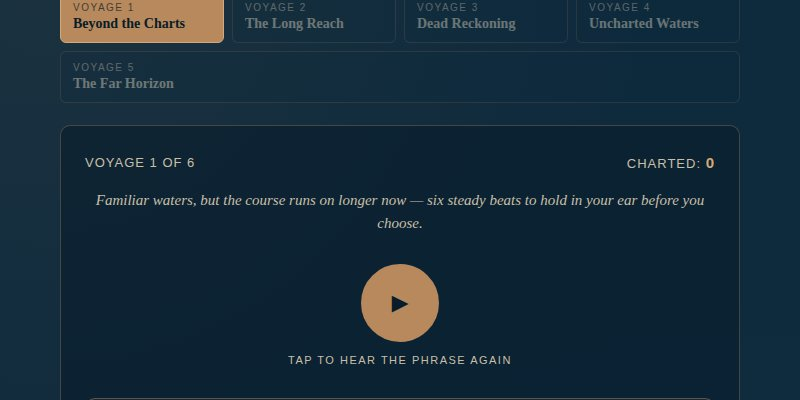
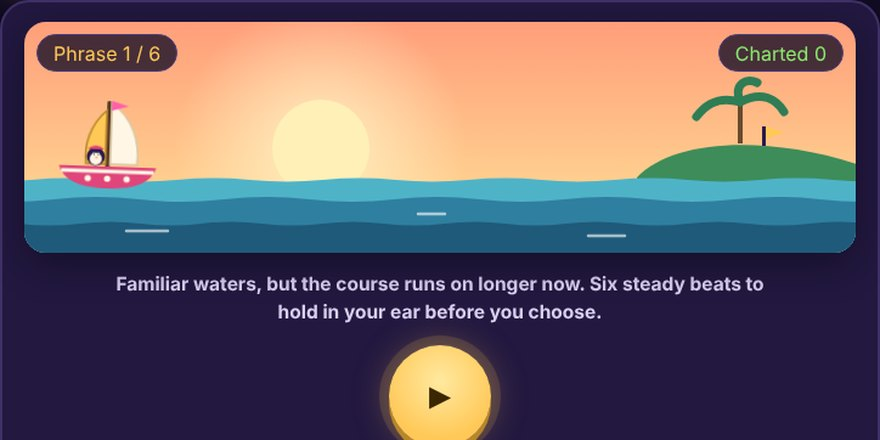
Restyle Charting the Melody II to match the newer games
Same house style as Charting the Melody: sea scene per voyage (new dawn
scene for The Far Horizon), sailboat that advances on correct answers,
cream sea-chart contour cards, gold play button. Game logic unchanged;
em dashes removed. Also gives both games more top room on phones so the
heading clears the back link. Updated card screenshot.

Claude-Session: https://claude.ai/code/session_01Vt89E4KrajVwQZ7JitHWqg

diff --git a/games/charting-the-melody-2.html b/games/charting-the-melody-2.html
@@ -328,6 +328,118 @@
     .contour-card svg { height: 64px; }
   }
 </style>
+<link rel="preconnect" href="https://fonts.googleapis.com">
+<link rel="preconnect" href="https://fonts.gstatic.com" crossorigin>
+<link href="https://fonts.googleapis.com/css2?family=Bungee&family=Lilita+One&family=Nunito:wght@400;600;700;800;900&display=swap" rel="stylesheet">
+<style id="lum-house-style">
+:root{
+  --night:#120C24;--panel:#221840;--panel-2:#2C1F52;--line:#3F3168;
+  --ink-l:#F7EEDC;--ink-dim:#B3A7D1;--paper:#FFF6E6;--paper-ink:#2A1B4A;--paper-edge:#D9C7A3;
+  --lily:#8BEA6E;--gold:#FFC857;--pink:#FF5FA8;--orange:#FFA45B;--cyan:#6FE3FF;
+  --arcade:'Bungee','Lilita One',Impact,system-ui,sans-serif;
+  --display:'Lilita One','Arial Rounded MT Bold',system-ui,sans-serif;
+  --body:'Nunito',system-ui,-apple-system,'Segoe UI',sans-serif;
+  /* old variable names, remapped so inline SVG keeps working */
+  --brass:#2A1B4A;--brass-bright:#FFC857;--parchment:#2A1B4A;--parchment-soft:#8F7FB5;--navy-deep:#2A1B4A;
+}
+body{background:radial-gradient(ellipse at 50% -15%,#2C1F52 0%,#120C24 58%) fixed,#120C24 !important;color:var(--ink-l);font-family:var(--body) !important}
+.wrap{max-width:760px !important;padding:30px 18px 60px !important}
+.site-back{position:fixed;top:14px;left:14px;z-index:9999;font:800 13px/1 var(--body);color:var(--ink-dim);text-decoration:none;background:rgba(18,12,36,.8);border:1px solid var(--line);border-radius:999px;padding:8px 14px}
+.site-back:hover{color:var(--ink-l)}
+
+.masthead{border:0 !important;padding:0 !important;margin:10px 0 18px !important}
+.masthead .eyebrow{font-family:var(--body);font-weight:900;font-size:12px;letter-spacing:.32em !important;color:var(--cyan) !important;text-shadow:0 0 12px rgba(111,227,255,.5)}
+.masthead h1{font-family:var(--arcade) !important;font-weight:400 !important;font-size:clamp(34px,6.4vw,58px) !important;line-height:.95;margin:8px 0 6px !important;background:linear-gradient(180deg,#FFF1B8 0%,#FFC857 50%,#FF9A3D 100%);-webkit-background-clip:text;background-clip:text;color:transparent !important;filter:drop-shadow(0 4px 0 #1B0F3A) drop-shadow(0 0 18px rgba(255,200,87,.35))}
+.masthead h1 span{display:block;font-size:.62em;background:linear-gradient(180deg,#D9FBFF 0%,#6FE3FF 50%,#4FA3FF 100%);-webkit-background-clip:text;background-clip:text}
+.masthead .sub{color:var(--ink-dim);font-size:15px;margin:0}
+
+.level-rail{display:grid !important;grid-template-columns:repeat(4,1fr);gap:10px !important;margin-bottom:16px !important}
+.level-pip{min-width:0 !important;background:var(--panel-2) !important;border:2px solid var(--line) !important;border-radius:16px !important;padding:10px 12px !important;color:var(--ink-l);font-family:var(--body)}
+.level-pip .lvl-num{font-family:var(--arcade);font-size:10px !important;letter-spacing:.08em !important;color:var(--cyan) !important;opacity:1 !important}
+.level-pip .lvl-name{font-family:var(--display) !important;font-weight:400 !important;font-size:16px !important;color:var(--ink-l) !important}
+.level-pip.active{border-color:var(--gold) !important;box-shadow:0 10px 26px -8px rgba(255,200,87,.7)}
+.level-pip.locked{opacity:.45 !important}
+.level-pip .charted-mini{background:var(--lily) !important;color:#14361A !important;border:2px solid var(--night) !important}
+
+.chart-panel{background:var(--panel) !important;border:2px solid var(--line) !important;border-radius:24px !important;padding:16px 18px 22px !important;box-shadow:0 20px 60px rgba(0,0,0,.45)}
+
+/* sea scene */
+.sea{position:relative;height:190px;border-radius:18px;overflow:hidden;margin:0 0 14px;box-shadow:inset 0 0 0 2px rgba(255,255,255,.06),0 10px 30px rgba(0,0,0,.35)}
+.sea svg.scene{position:absolute;inset:0;width:100%;height:100%;display:block}
+.sea .hud{position:absolute;top:10px;left:10px;right:10px;display:flex;justify-content:space-between;gap:8px;z-index:4}
+.sea .pill{background:rgba(18,12,36,.78);border:1px solid #4A3B7C;color:var(--ink-l);font-family:var(--display);font-size:16px;padding:5px 13px 4px;border-radius:999px}
+.sea .pill.gold{color:var(--gold)}
+.sea .pill.lily{color:var(--lily)}
+.boat{position:absolute;bottom:22%;z-index:3;width:92px;transform:translateX(-50%);transition:left 1.1s cubic-bezier(.45,.05,.35,1)}
+.boat svg{display:block;width:100%;height:auto;animation:bob 2.6s ease-in-out infinite;transform-origin:50% 90%}
+@keyframes bob{0%,100%{transform:translateY(0) rotate(-2deg)}50%{transform:translateY(-5px) rotate(2deg)}}
+.wave-a{animation:swell 6s ease-in-out infinite alternate}
+.wave-b{animation:swell 8s ease-in-out infinite alternate-reverse}
+@keyframes swell{from{transform:translateX(-24px)}to{transform:translateX(24px)}}
+.twinkle{animation:tw 3s ease-in-out infinite}
+@keyframes tw{0%,100%{opacity:.25}50%{opacity:1}}
+.beam{animation:beam 4s ease-in-out infinite}
+@keyframes beam{0%,100%{opacity:.35}50%{opacity:1}}
+
+/* text + controls */
+.stat-row{display:none !important}
+.chart-brief{font-family:var(--body) !important;font-style:normal !important;font-weight:700;color:#D9CFF0 !important;font-size:15.5px !important;margin:4px auto 14px !important;max-width:560px}
+.briefing-label{color:var(--ink-dim) !important;font-weight:700}
+.ref-chip{background:var(--paper) !important;color:var(--paper-ink) !important;border:0 !important;font-family:var(--display);font-weight:400 !important;font-size:17px !important;padding:9px 20px 7px !important;box-shadow:0 4px 0 var(--paper-edge)}
+.ref-chip:hover{background:#FFF1BF !important}
+.ref-chip:active{transform:translateY(3px);box-shadow:0 1px 0 var(--paper-edge)}
+.listen-zone{padding:2px 0 14px !important;gap:8px !important}
+.play-btn{width:84px !important;height:84px !important;border:0 !important;background:radial-gradient(circle at 50% 35%,#FFE9A0,#FFC857 70%) !important;color:#3A2600 !important;font-size:30px !important;box-shadow:0 6px 0 #B8862A,0 0 0 8px rgba(255,200,87,.14),0 0 30px rgba(255,200,87,.35) !important}
+.play-btn:hover{background:radial-gradient(circle at 50% 35%,#FFF1BF,#FFD67A 70%) !important;color:#3A2600 !important}
+.play-btn:active{transform:translateY(4px) !important;box-shadow:0 2px 0 #B8862A !important}
+.play-label{font-family:var(--display);text-transform:none !important;letter-spacing:.01em !important;font-size:16px !important;color:var(--ink-dim) !important}
+
+/* contour cards: cream sea-chart paper */
+.contour-grid{gap:14px !important}
+.contour-card{position:relative;background:var(--paper) !important;border:3px solid transparent !important;border-radius:18px !important;box-shadow:0 5px 0 var(--paper-edge);padding:26px 10px 10px !important;overflow:hidden}
+.contour-card::before{content:"";position:absolute;inset:0;background:
+   repeating-linear-gradient(0deg,rgba(79,163,255,.07) 0 1px,transparent 1px 18px),
+   repeating-linear-gradient(90deg,rgba(79,163,255,.07) 0 1px,transparent 1px 18px);pointer-events:none}
+.contour-card:hover:not(.locked-card){transform:translateY(-3px) !important;background:#FFFBF1 !important;border-color:var(--gold) !important}
+.contour-card svg{position:relative}
+.contour-card .card-label{position:absolute;top:8px;left:10px;font-family:var(--arcade) !important;font-size:11px !important;letter-spacing:.06em !important;color:#fff !important;background:var(--paper-ink);border-radius:7px;padding:3px 8px 1px}
+.contour-card.selected{border-color:var(--gold) !important}
+.contour-card.correct-card{border-color:#3FBF6A !important;background:#ECFCE6 !important;box-shadow:0 5px 0 #8FD39E,0 0 0 4px rgba(139,234,110,.3)}
+.contour-card.correct-card .card-label{background:#23854A}
+.contour-card.wrong-card{border-color:#E0457B !important;background:#FFEDF2 !important;box-shadow:0 5px 0 #F2A7BF}
+.contour-card.wrong-card .card-label{background:#D2386C}
+.contour-card.correct-card::after{content:"✓";position:absolute;top:4px;right:10px;font:400 22px var(--display);color:#23854A}
+.contour-card.wrong-card::after{content:"✕";position:absolute;top:4px;right:10px;font:400 20px var(--display);color:#D2386C}
+
+.feedback-line{font-family:var(--display);font-style:normal !important;font-size:20px !important;color:var(--ink-l) !important;margin-top:10px !important}
+.feedback-line.good{color:var(--lily) !important}
+.feedback-line.bad{color:#FF8FB8 !important}
+button.chart-btn{font-family:var(--display) !important;font-weight:400 !important;font-size:19px !important;text-transform:none !important;letter-spacing:.01em !important;border-radius:999px !important;padding:12px 30px 10px !important;background:linear-gradient(180deg,#FFE9A0,#FFC857) !important;color:#3A2600 !important;box-shadow:0 5px 0 #B8862A,0 0 24px rgba(255,200,87,.25)}
+button.chart-btn:hover{background:linear-gradient(180deg,#FFF1BF,#FFD67A) !important}
+button.chart-btn:active{transform:translateY(3px) !important;box-shadow:0 2px 0 #B8862A}
+button.chart-btn.ghost{background:#3A2C62 !important;color:var(--ink-l) !important;box-shadow:0 4px 0 #0b0717}
+#setSailBtn{font-family:var(--arcade) !important;font-size:20px !important;letter-spacing:.05em !important;width:auto !important;padding:13px 40px 10px !important}
+.log-complete h2{font-family:var(--arcade) !important;font-weight:400;color:var(--gold) !important;font-size:30px !important;text-shadow:0 4px 0 #1B0F3A}
+.log-complete p{color:#D9CFF0 !important}
+.footer-note{color:var(--ink-dim) !important;opacity:1 !important}
+
+.contour-grid{grid-template-columns:1fr !important}
+.contour-card{flex-direction:row !important;align-items:center !important;padding:12px 16px 12px 14px !important}
+.contour-card .card-label{position:static !important;flex-shrink:0;order:-1}
+.contour-card{padding-right:44px !important}
+.contour-card svg{flex:1;min-width:0}
+.level-rail{grid-template-columns:repeat(5,1fr) !important}
+.level-pip .lvl-name{font-size:15px !important}
+.contour-card svg{height:100px !important}
+.contour-card.correct-card::after,.contour-card.wrong-card::after{top:50%;transform:translateY(-50%)}
+:root{--sea-bright:#4FA3FF}
+@media (max-width:640px){.level-rail{grid-template-columns:repeat(2,1fr) !important}}
+@media (max-width:480px){.contour-card{flex-direction:column !important;align-items:stretch !important}.contour-card .card-label{align-self:flex-start}}
+
+@media (max-width:560px){.wrap{padding-top:64px !important}.masthead .eyebrow{letter-spacing:.18em !important}.level-rail{grid-template-columns:repeat(2,1fr)}.sea{height:160px}.boat{width:74px}}
+@media (prefers-reduced-motion:reduce){.boat svg,.wave-a,.wave-b,.twinkle,.beam{animation:none}}
+</style>
+
 <!-- SEO -->
 <link rel="canonical" href="https://levelupmusicianship.com/games/charting-the-melody-2">
 <meta property="og:type" content="website">
@@ -376,17 +488,19 @@
 <!-- /SEO -->
 </head>
 <body>
-<a href="../games.html" style="position:fixed;top:14px;left:14px;z-index:9999;font-family:'Source Sans 3',sans-serif;font-size:13px;font-weight:600;color:#fff;background:rgba(0,0,0,0.45);padding:7px 14px;border-radius:100px;text-decoration:none;backdrop-filter:blur(4px);">&larr; Level Up Musicianship</a>
+<a class="site-back" href="../games.html">&larr; Level Up Musicianship</a>
 <div class="wrap">
 
   <div class="masthead">
-    <p class="eyebrow">Longer courses, further waters</p>
-    <h1>Charting the Melody II</h1>
+    <p class="eyebrow">Melodic contour + rhythm &middot; Year 8</p>
+    <h1>Charting<span>the Melody II</span></h1>
+    <p class="sub">Longer phrases with real rhythms. Hear it, then pick the course that matches.</p>
   </div>
 
   <div class="level-rail" id="levelRail"></div>
 
   <div class="chart-panel" id="chartPanel">
+    <div class="sea" id="seaScene"></div>
     <div class="stat-row" id="statRow" style="display:none;">
       <span id="statLeft">Voyage 1 of 5</span>
       <span>Charted: <span class="score-num" id="scoreNum">0</span></span>
@@ -421,7 +535,7 @@
     </div>
   </div>
 
-  <p class="footer-note">Synthesised tones &mdash; no files, no installs.<br>The further voyages of Charting the Melody, for longer phrases and a sharper ear. Part of the Level Up Musicianship library.</p>
+  <p class="footer-note">Synthesised tones. No files, no installs.<br>The further voyages of Charting the Melody, for longer phrases and a sharper ear. Part of the Level Up Musicianship library.</p>
 
 </div>
 
@@ -518,19 +632,19 @@
       id: 1, name: 'Beyond the Charts', voyages: 6,
       scale: 'pentatonic', order: ['d','r','m','s'], beatCount: 6,
       rhythms: ['crotchet'],
-      brief: 'Familiar waters, but the course runs on longer now \u2014 six steady beats to hold in your ear before you choose.'
+      brief: 'Familiar waters, but the course runs on longer now. Six steady beats to hold in your ear before you choose.'
     },
     {
       id: 2, name: 'The Long Reach', voyages: 6,
       scale: 'pentatonic', order: ['d','r','m','s','l'], beatCount: 6,
       rhythms: ['crotchet', 'titi'],
-      brief: 'Some beats now split into ti-ti. Don\u2019t just catch the first few moves \u2014 the whole phrase has to land.'
+      brief: 'Some beats now split into ti-ti. Don\u2019t just catch the first few moves. The whole phrase has to land.'
     },
     {
       id: 3, name: 'Dead Reckoning', voyages: 7,
       scale: 'diatonic', order: ['d','r','m','f','s','l'], beatCount: 6,
       rhythms: ['crotchet', 'titi', 'titika'],
-      brief: 'Listen for ti-ti-ka tucked into the beat, and the close calls in pitch \u2014 mi to fa is a short hop, not a leap.'
+      brief: 'Listen for ti-ti-ka tucked into the beat, and the close calls in pitch: mi to fa is a short hop, not a leap.'
     },
     {
       id: 4, name: 'Uncharted Waters', voyages: 7,
@@ -542,7 +656,7 @@
       id: 5, name: 'The Far Horizon', voyages: 8,
       scale: 'diatonic', order: ['d','r','m','f','s','l','t','d2'], beatCount: 7,
       rhythms: ['crotchet', 'titi', 'titika', 'tikati', 'tikatika'],
-      brief: 'The full octave, and the full rhythm kit \u2014 ti-ka-ti-ka included. The longest, busiest course yet.'
+      brief: 'The full octave, and the full rhythm kit, ti-ka-ti-ka included. The longest, busiest course yet.'
     }
   ];
 
@@ -794,7 +908,7 @@
       seenLevels.add(val);
       const norm = (val - minH) / range;
       const y = (h - padY) - norm * (h - padY * 2);
-      gridlines += `<line x1="${padX}" y1="${y.toFixed(1)}" x2="${w - padX}" y2="${y.toFixed(1)}" stroke="var(--brass)" stroke-width="1" opacity="0.12"/>`;
+      gridlines += `<line x1="${padX}" y1="${y.toFixed(1)}" x2="${w - padX}" y2="${y.toFixed(1)}" stroke="#4FA3FF" stroke-width="1" opacity="0.35" stroke-dasharray="2,4"/>`;
     });
 
     // every segment is either "held" (same pitch, dashed) or "moved"
@@ -808,8 +922,8 @@
       const isSame = label === 'same';
       const mx = (x0 + x1) / 2, my = (y0 + y1) / 2;
       let stroke, width, dash;
-      if (isSame) { stroke = 'var(--parchment-soft)'; width = 1.8; dash = '4,3'; }
-      else { stroke = 'var(--parchment)'; width = 2.2; dash = 'none'; }
+      if (isSame) { stroke = '#8F7FB5'; width = 2.6; dash = '5,4'; }
+      else { stroke = '#2A1B4A'; width = 3; dash = 'none'; }
       const dashAttr = dash !== 'none' ? ` stroke-dasharray="${dash}"` : '';
       segments += `<path d="M ${x0.toFixed(1)} ${y0.toFixed(1)} Q ${x0.toFixed(1)} ${y0.toFixed(1)} ${mx.toFixed(1)} ${my.toFixed(1)} Q ${x1.toFixed(1)} ${y1.toFixed(1)} ${x1.toFixed(1)} ${y1.toFixed(1)}" fill="none" stroke="${stroke}" stroke-width="${width}" stroke-linecap="round"${dashAttr}/>`;
     }
@@ -819,8 +933,8 @@
     let dots = '';
     pts.forEach((p, i) => {
       const dur = rhythm ? rhythm.durations[i] : 1;
-      const r = 2.3 + dur * 1.6;
-      dots += `<circle cx="${p[0].toFixed(1)}" cy="${p[1].toFixed(1)}" r="${r.toFixed(1)}" fill="var(--brass-bright)" stroke="var(--navy-deep)" stroke-width="1"/>`;
+      const r = 3 + dur * 2;
+      dots += `<circle cx="${p[0].toFixed(1)}" cy="${p[1].toFixed(1)}" r="${r.toFixed(1)}" fill="#FFC857" stroke="#2A1B4A" stroke-width="1.6"/>`;
     });
 
     // beat ticks + beam-style underlines: a short tick at every beat
@@ -854,6 +968,79 @@
     </svg>`;
   }
 
+
+  /* ===== house-style sea scene ===== */
+  const seaEl = document.getElementById('seaScene');
+  let charted = 0;
+  function seaSVG(levelIdx){
+    const P = [
+      {s1:'#FF9E7A',s2:'#FFCF8F',s3:'#FFE9B8',sea1:'#4FB3C8',sea2:'#2F7FA0',sea3:'#1F5A7A',isl:'#3E8C5A',sun:'day'},
+      {s1:'#5EC3E8',s2:'#A8E3F0',s3:'#E9F8F6',sea1:'#3C9CC4',sea2:'#2A73A0',sea3:'#1B4E78',isl:'#3E8C5A',sun:'noon'},
+      {s1:'#120C24',s2:'#2C1F52',s3:'#4A2F6B',sea1:'#2B3F7A',sea2:'#1E2C5E',sea3:'#141E44',isl:'#1E2C3E',sun:'stars'},
+      {s1:'#0B0A1E',s2:'#1C1A44',s3:'#2E2B66',sea1:'#24356E',sea2:'#18244F',sea3:'#0F183A',isl:'#18223A',sun:'light'},
+      {s1:'#3A2C6E',s2:'#E77FA0',s3:'#FFC58A',sea1:'#5A7FC4',sea2:'#3D5C9E',sea3:'#283F74',isl:'#3B5A4A',sun:'dawn'}
+    ][levelIdx];
+    const c = P;
+    let o = `<svg class="scene" viewBox="0 0 1000 190" preserveAspectRatio="xMaxYMax slice" xmlns="http://www.w3.org/2000/svg">
+      <defs><linearGradient id="sk" x1="0" y1="0" x2="0" y2="1"><stop offset="0" stop-color="${c.s1}"/><stop offset=".7" stop-color="${c.s2}"/><stop offset="1" stop-color="${c.s3}"/></linearGradient>
+      <linearGradient id="bm" x1="1" y1="0" x2="0" y2="0"><stop offset="0" stop-color="#FFF4C8" stop-opacity=".55"/><stop offset="1" stop-color="#FFF4C8" stop-opacity="0"/></linearGradient><radialGradient id="gl"><stop offset="0" stop-color="#FFF4C8" stop-opacity=".9"/><stop offset="1" stop-color="#FFF4C8" stop-opacity="0"/></radialGradient></defs>
+      <rect width="1000" height="190" fill="url(#sk)"/>`;
+    if (c.sun === 'day') o += `<circle cx="560" cy="104" r="120" fill="url(#gl)"/><circle cx="560" cy="104" r="40" fill="#FFF0B8"/>`;
+    if (c.sun === 'dawn') o += `<circle cx="600" cy="132" r="140" fill="url(#gl)"/><circle cx="600" cy="132" r="46" fill="#FFE2A8"/><g fill="#FFD3C2" opacity=".6"><ellipse cx="420" cy="60" rx="70" ry="8"/><ellipse cx="760" cy="40" rx="90" ry="7"/></g>`;
+    if (c.sun === 'noon') o += `<circle cx="520" cy="44" r="90" fill="url(#gl)"/><circle cx="520" cy="44" r="26" fill="#FFF6CF"/><g fill="#fff" opacity=".85"><ellipse cx="700" cy="60" rx="56" ry="13"/><ellipse cx="735" cy="50" rx="34" ry="13"/><ellipse cx="380" cy="70" rx="44" ry="10"/></g>`;
+    if (c.sun === 'stars' || c.sun === 'light') {
+      let seed = 7 + levelIdx;
+      const rnd = () => (seed = (seed * 9301 + 49297) % 233280) / 233280;
+      for (let k = 0; k < 40; k++) o += `<circle class="twinkle" style="animation-delay:${(-rnd()*3).toFixed(2)}s" cx="${(rnd()*1000).toFixed(0)}" cy="${(rnd()*100).toFixed(0)}" r="${(rnd()*1.4+.5).toFixed(1)}" fill="#FFF6E6"/>`;
+      if (c.sun === 'stars') o += `<g stroke="#6FE3FF" stroke-width="1.2" opacity=".55" fill="#BFF4FF"><path d="M440,40 L480,30 L520,50 L560,38 L592,62" fill="none"/><circle cx="440" cy="40" r="2.6"/><circle cx="480" cy="30" r="2.6"/><circle cx="520" cy="50" r="2.6"/><circle cx="560" cy="38" r="2.6"/><circle cx="592" cy="62" r="2.6"/></g><circle cx="740" cy="64" r="60" fill="url(#gl)" opacity=".25"/><path d="M748,47 A18,18 0 1 0 757,74 A15,15 0 1 1 748,47Z" fill="#FFF1C4"/>`;
+    }
+    // goal island
+    o += `<path d="M820,128 C850,96 930,92 1010,120 L1010,140 L820,140Z" fill="${c.isl}"/>`;
+    if (c.sun === 'light') o += `<g transform="translate(910 62)"><path class="beam" d="M0,-2 L-300,-40 L-300,36Z" fill="url(#bm)"/><rect x="-7" y="0" width="14" height="44" fill="#F2E6D8"/><rect x="-7" y="10" width="14" height="6" fill="#E0457B"/><rect x="-7" y="26" width="14" height="6" fill="#E0457B"/><rect x="-10" y="-8" width="20" height="9" rx="2" fill="#2A1B4A"/><circle cx="0" cy="-4" r="4" fill="#FFE27A"/></g>`;
+    else o += `<g transform="translate(905 100)"><rect x="-2" y="-34" width="4" height="34" fill="#6A4A2E"/><path d="M0,-34 C-20,-40 -30,-30 -36,-22 M0,-34 C18,-44 30,-36 36,-26 M0,-34 C-6,-50 6,-54 14,-50" stroke="#2F7D55" stroke-width="7" fill="none" stroke-linecap="round"/><rect x="18" y="-14" width="3" height="16" fill="#2A1B4A"/><path d="M21,-14 L36,-9 L21,-4Z" fill="#FFC857"/></g>`;
+    // sea layers
+    const amp = levelIdx === 0 ? 4 : levelIdx === 1 ? 9 : 7;
+    const wave = (y, a, len) => { let d = `M-60,${y}`; for (let x = -60; x < 1080; x += len) d += ` q${len/4},${-a} ${len/2},0 t${len/2},0`; return d + ` L1080,190 L-60,190Z`; };
+    o += `<path class="wave-b" d="${wave(130, amp*.7, 120)}" fill="${c.sea1}"/>`;
+    o += `<path class="wave-a" d="${wave(146, amp, 140)}" fill="${c.sea2}"/>`;
+    o += `<path class="wave-b" d="${wave(166, amp*.8, 100)}" fill="${c.sea3}"/>`;
+    o += `<g stroke="#fff" stroke-width="2.5" stroke-linecap="round" opacity="${c.sun === 'stars' || c.sun === 'light' ? .25 : .6}"><path d="M120,156 h26 M400,172 h34 M640,158 h22 M780,176 h30"/></g>`;
+    return o + `</svg>`;
+  }
+  function boatSVG(night){
+    return `<svg viewBox="0 0 92 84" xmlns="http://www.w3.org/2000/svg">
+      <rect x="44" y="6" width="3.5" height="56" rx="1.5" fill="#5B3A29"/>
+      <path d="M48,8 C66,20 72,40 70,58 L48,58Z" fill="#FFF6E6" stroke="#D9C7A3" stroke-width="1.5"/>
+      <path d="M44,14 C30,26 26,44 28,58 L44,58Z" fill="#FFC857" stroke="#B8862A" stroke-width="1.5"/>
+      <path d="M48,6 L62,10 L48,14Z" fill="#FF5FA8"/>
+      <circle cx="36" cy="52" r="7.5" fill="#2A1B4A"/><circle cx="36" cy="54" r="5" fill="#FFF6E6"/>
+      <circle cx="34.5" cy="50" r="1.2" fill="#fff"/><circle cx="38" cy="50" r="1.2" fill="#fff"/>
+      <circle cx="34.5" cy="50.2" r=".6" fill="#2A1B4A"/><circle cx="38" cy="50.2" r=".6" fill="#2A1B4A"/>
+      <path d="M35,52.2 l1.6,1.8 l1.6,-1.8Z" fill="#FFA45B"/>
+      <path d="M29,46 Q36,40 43,46Z" fill="#E0457B"/>
+      ${night ? '<circle cx="78" cy="56" r="10" fill="#FFE27A" opacity=".25"/><circle cx="78" cy="56" r="3.5" fill="#FFE27A"/><line x1="72" y1="60" x2="78" y2="56" stroke="#5B3A29" stroke-width="2"/>' : ''}
+      <path d="M6,60 L86,60 C82,72 70,78 46,78 C22,78 10,72 6,60Z" fill="#E0457B"/>
+      <path d="M8,64 L84,64" stroke="#FFF6E6" stroke-width="3"/>
+      <circle cx="30" cy="70" r="2.6" fill="#FFF6E6"/><circle cx="46" cy="70" r="2.6" fill="#FFF6E6"/><circle cx="62" cy="70" r="2.6" fill="#FFF6E6"/>
+    </svg>`;
+  }
+  function renderSea(){
+    if (!seaEl) return;
+    const lvl = LEVELS[currentLevelIdx];
+    const total = lvl.voyages;
+    const pct = 10 + (charted / total) * 70;
+    const night = currentLevelIdx === 2 || currentLevelIdx === 3;
+    if (seaEl.dataset.level !== String(currentLevelIdx)) {
+      seaEl.innerHTML = seaSVG(currentLevelIdx) +
+        `<div class="hud"><span class="pill gold" id="seaVoy"></span><span class="pill lily" id="seaScore"></span></div>` +
+        `<div class="boat" id="seaBoat" style="left:${pct}%">${boatSVG(night)}</div>`;
+      seaEl.dataset.level = String(currentLevelIdx);
+    }
+    document.getElementById('seaVoy').textContent = 'Phrase ' + Math.min(voyageIndex + 1, total) + ' / ' + total;
+    document.getElementById('seaScore').textContent = 'Charted ' + score;
+    document.getElementById('seaBoat').style.left = pct + '%';
+  }
+
   function renderLevelRail() {
     levelRail.innerHTML = '';
     LEVELS.forEach((lvl, i) => {
@@ -880,7 +1067,9 @@
     voyageIndex = 0;
     score = 0;
     lastPhraseKey = null;
+    charted = 0;
     chartBrief.textContent = lvl.brief;
+    renderSea();
     completeState.style.display = 'none';
     playState.style.display = 'none';
     statRow.style.display = 'none';
@@ -957,6 +1146,8 @@
     playBtn.disabled = false;
     playLabel.textContent = 'Tap to hear the phrase again';
     nextQBtn.style.display = 'none';
+    feedbackLine.className = 'feedback-line';
+    renderSea();
 
     let phrase = generatePhrase(lvl);
     let key = indexKey(phrase.indices);
@@ -1016,15 +1207,17 @@
     cardEl.classList.add('selected');
 
     const isCorrect = idx === correctOptionIdx;
-    if (isCorrect) score++;
+    if (isCorrect) { score++; charted++; }
     scoreNum.textContent = score;
+    renderSea();
+    feedbackLine.className = 'feedback-line ' + (isCorrect ? 'good' : 'bad');
 
     cards[correctOptionIdx].classList.add('correct-card');
     if (!isCorrect) cardEl.classList.add('wrong-card');
 
     feedbackLine.textContent = isCorrect
       ? 'Course charted true.'
-      : 'Not quite \u2014 the true course is marked.';
+      : 'Not quite. The true course is marked in green.';
     playLabel.textContent = 'Tap to hear the phrase again';
 
     nextQBtn.style.display = 'block';
@@ -1061,7 +1254,7 @@
 
     completeTitle.textContent = passed ? 'Voyage complete' : 'Course incomplete';
     completeBody.textContent = 'You charted ' + score + ' of ' + lvl.voyages + ' phrases correctly.' +
-      (passed ? ' Well navigated \u2014 the next voyage awaits.' : ' Chart this voyage again before sailing onward.');
+      (passed ? ' Well navigated. The next voyage awaits.' : ' Chart this voyage again before sailing onward.');
 
     if (passed) {
       progress.stars[lvl.id] = true;

diff --git a/games/charting-the-melody.html b/games/charting-the-melody.html
@@ -420,7 +420,7 @@ button.chart-btn.ghost{background:#3A2C62 !important;color:var(--ink-l) !importa
 .log-complete h2{font-family:var(--arcade) !important;font-weight:400;color:var(--gold) !important;font-size:30px !important;text-shadow:0 4px 0 #1B0F3A}
 .log-complete p{color:#D9CFF0 !important}
 .footer-note{color:var(--ink-dim) !important;opacity:1 !important}
-@media (max-width:560px){.level-rail{grid-template-columns:repeat(2,1fr)}.sea{height:160px}.boat{width:74px}}
+@media (max-width:560px){.wrap{padding-top:64px !important}.masthead .eyebrow{letter-spacing:.18em !important}.level-rail{grid-template-columns:repeat(2,1fr)}.sea{height:160px}.boat{width:74px}}
 @media (prefers-reduced-motion:reduce){.boat svg,.wave-a,.wave-b,.twinkle,.beam{animation:none}}
 </style>
 
